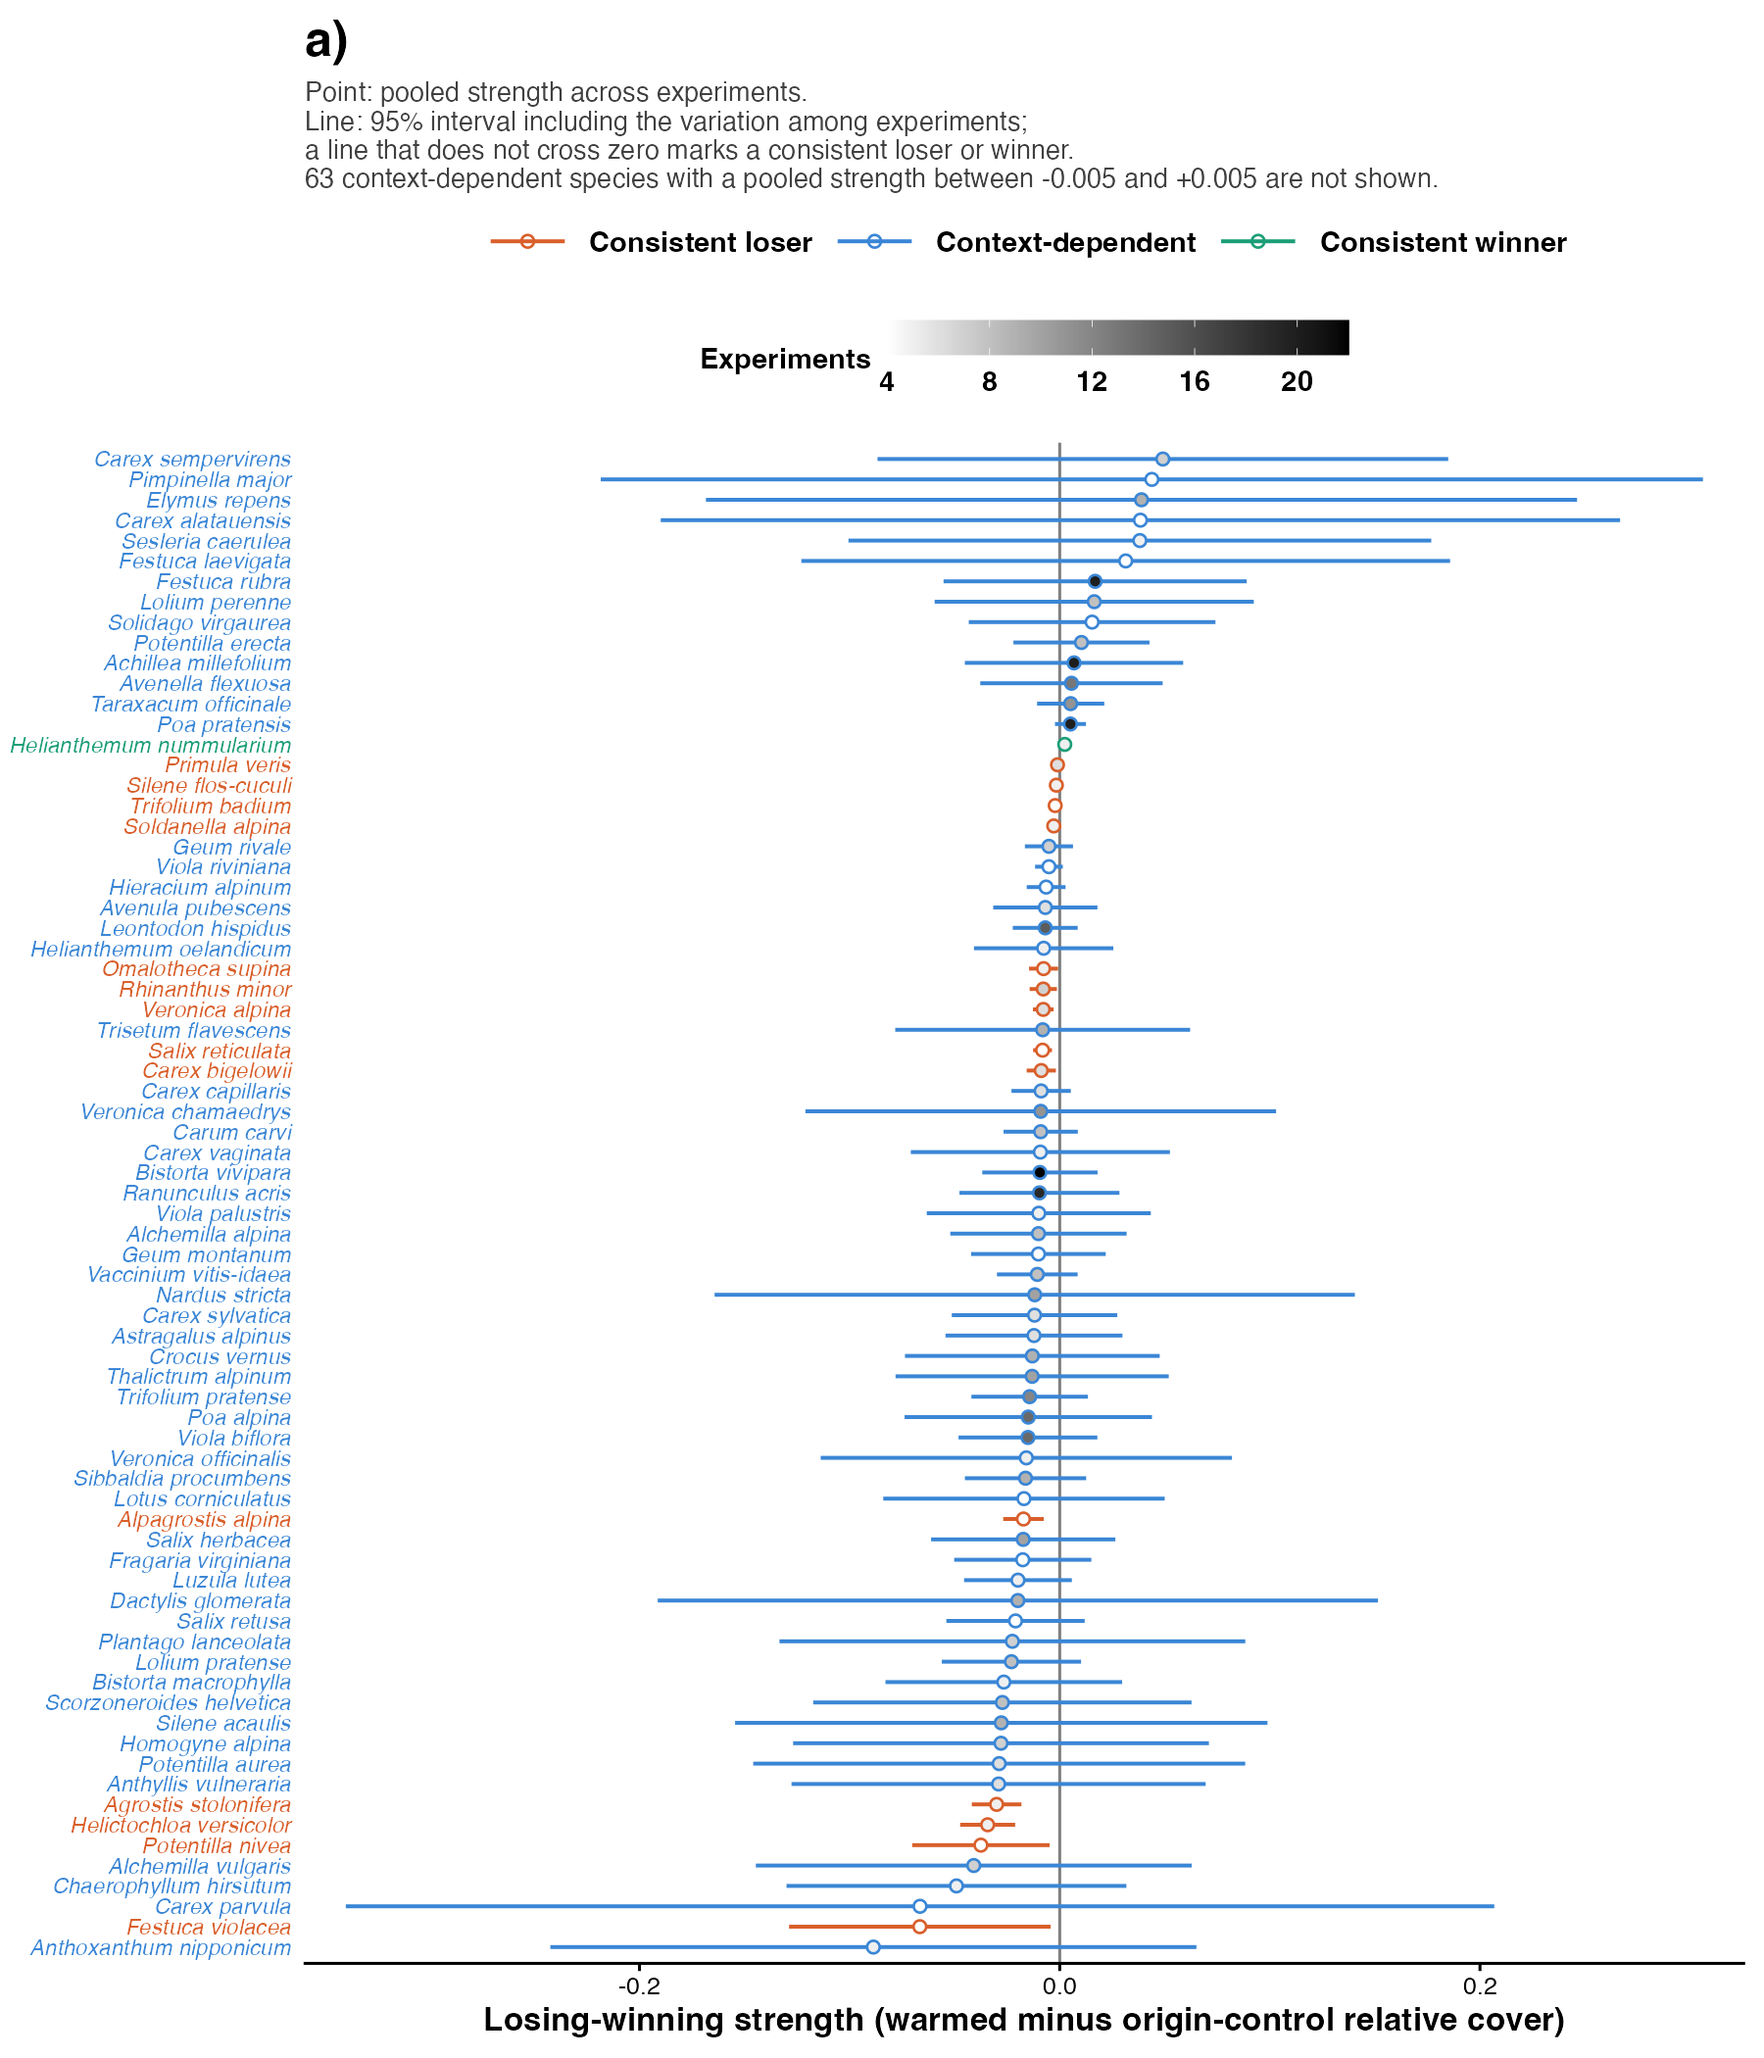
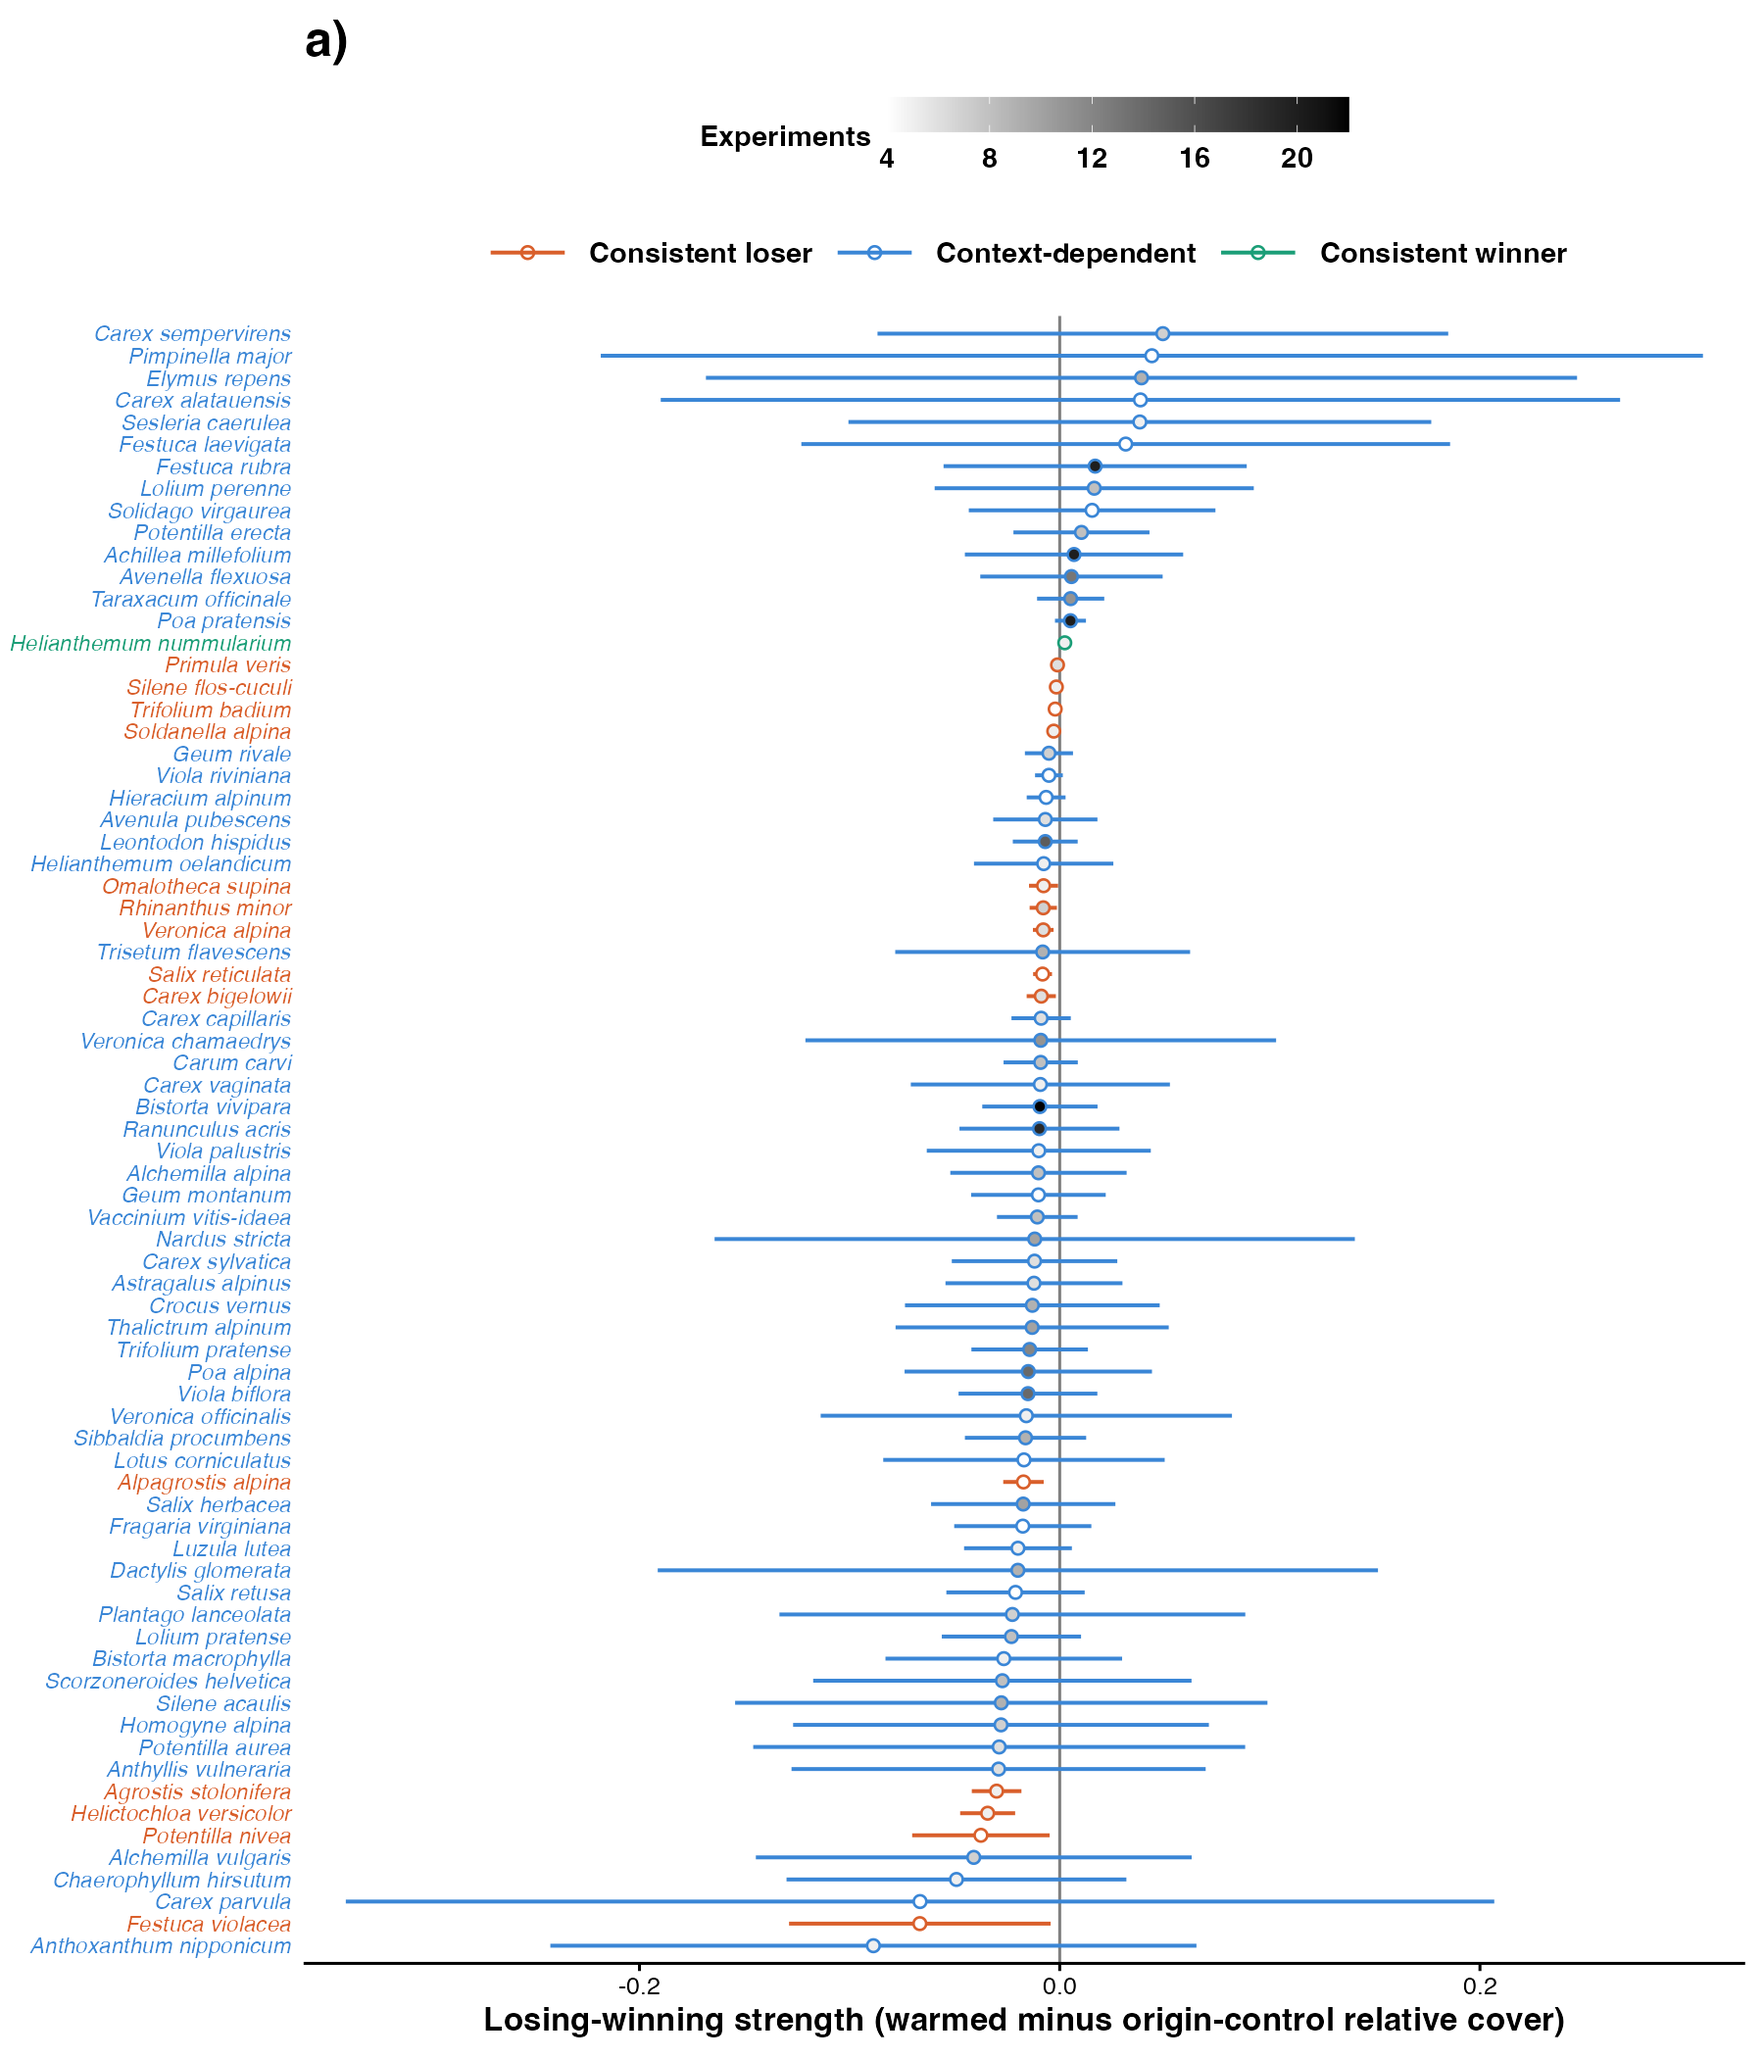
step 04: Fig S6 without subtitle; its explanation and the count of hidden species moved to the report (Bills)

Changed region(s): [[0.0311, 0.1548, 0.9022, 0.9595], [0.1556, 0.031, 0.8711, 0.1238]]

diff --git a/reports/04_classification.md b/reports/04_classification.md
@@ -61,6 +61,8 @@ Fig 2 corner panels follow once four species are named (MILESTONES).
 
 ![Fig S6 draft](../figures/diagnostics/04_figS6_draft.png)
 
+Fig S6: point = pooled strength; line = 95% interval including the variation among experiments (a line that does not cross zero marks a consistent loser or winner); points filled by the number of experiments. 63 context-dependent species with a pooled strength between -0.005 and +0.005 are not shown.
+
 ## Warnings captured
 
 - Refitted with the bobyqa optimizer after nlminb did not declare convergence (tau2_s at 0): Bartsia alpina.
